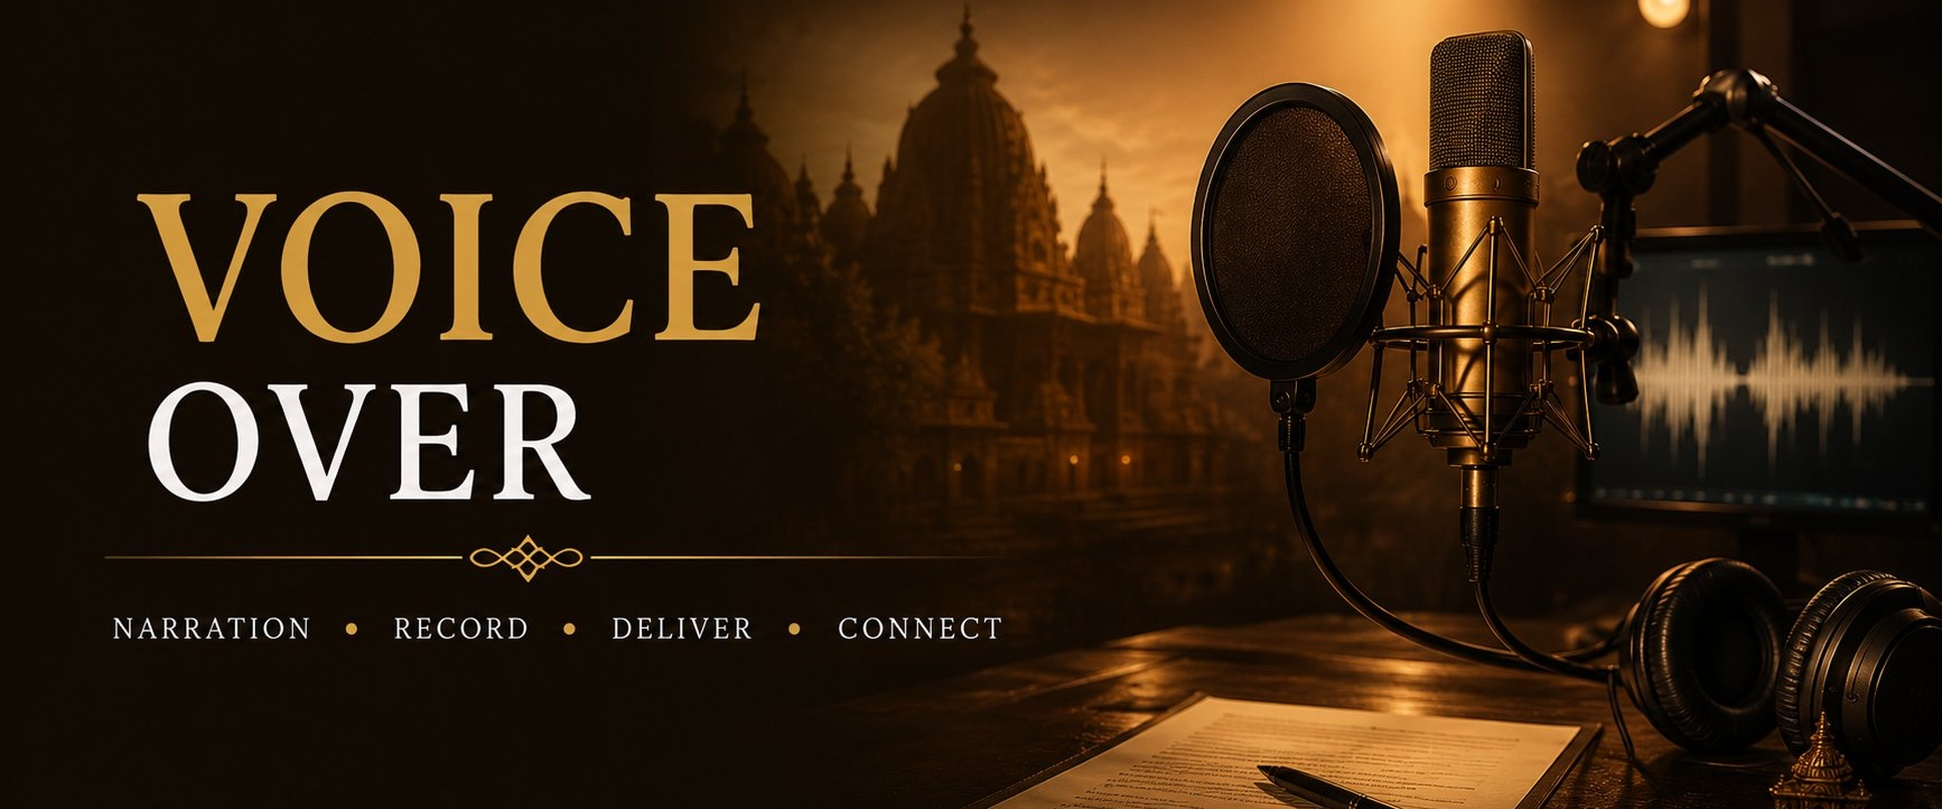
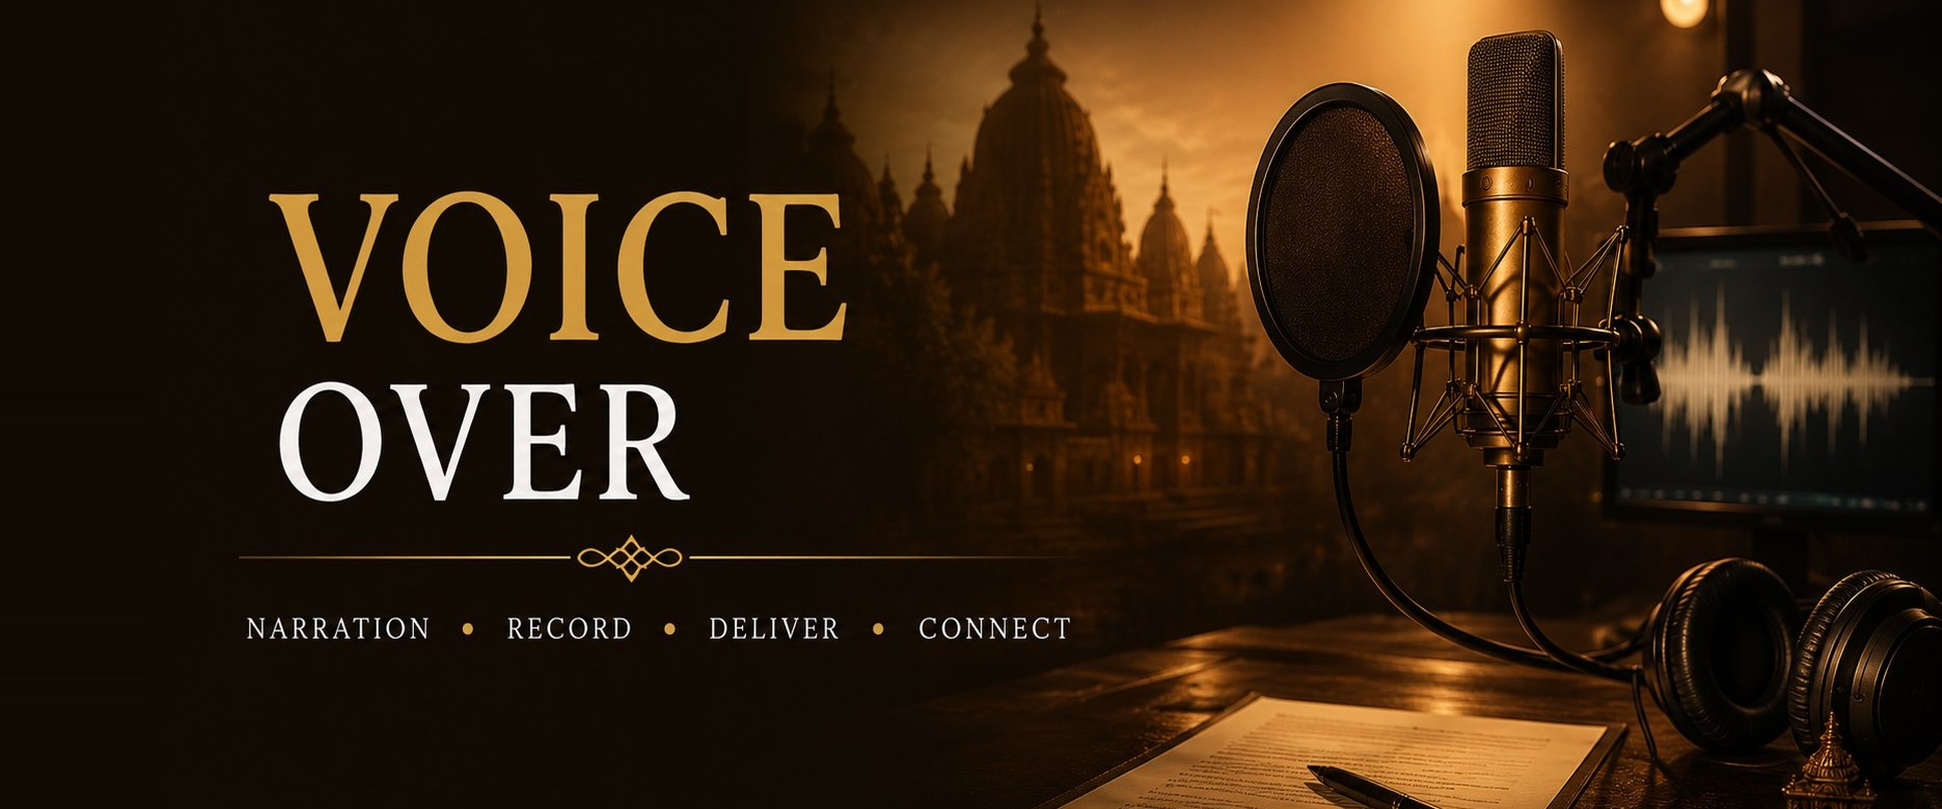
Unify all 12 poster covers to 2.4:1 (1942x809): fix Voice Over, Digital Writing, Commercial & Feature Films alignment and remove inline 82vh

diff --git a/style.css b/style.css
@@ -10052,9 +10052,14 @@ body.mobile-nav-locked {
 @media (max-width: 992px) {
     /* Header layout */
     .header {
+        position: fixed !important;
+        top: 0 !important;
+        left: 0 !important;
+        width: 100% !important;
         background: rgba(26, 16, 11, 0.95) !important;
         backdrop-filter: blur(14px) !important;
         -webkit-backdrop-filter: blur(14px) !important;
+        z-index: 100005 !important; /* CRITICAL: Sits ABOVE .mobile-nav-backdrop (100000) on tablets */
     }
 
     .header-container {
@@ -10066,6 +10071,7 @@ body.mobile-nav-locked {
 
     .mobile-nav-toggle {
         display: flex !important;
+        z-index: 100006 !important;
     }
 
     .logo img {
@@ -10075,23 +10081,23 @@ body.mobile-nav-locked {
         object-fit: contain !important;
     }
 
-    /* Mobile Drawer */
+    /* Mobile / Tablet Drawer */
     .navbar {
         position: fixed !important;
         top: 0 !important;
-        right: -320px !important;
-        width: 300px !important;
+        right: -360px !important;
+        width: 340px !important;
         max-width: 85vw !important;
         height: 100vh !important;
         height: 100dvh !important;
-        background: linear-gradient(180deg, rgba(28, 17, 11, 0.98) 0%, rgba(18, 10, 6, 0.99) 100%) !important;
-        border-left: 1px solid rgba(223, 195, 122, 0.3) !important;
-        box-shadow: -15px 0 40px rgba(0, 0, 0, 0.85) !important;
-        padding: 90px 28px 40px !important;
+        background: linear-gradient(180deg, rgba(28, 17, 11, 0.99) 0%, rgba(18, 10, 6, 0.99) 100%) !important;
+        border-left: 1px solid rgba(223, 195, 122, 0.35) !important;
+        box-shadow: -15px 0 45px rgba(0, 0, 0, 0.9) !important;
+        padding: 95px 32px 40px !important;
         display: flex !important;
         flex-direction: column !important;
         justify-content: flex-start !important;
-        z-index: 100001 !important;
+        z-index: 100007 !important;
         visibility: hidden !important;
         pointer-events: none !important;
         transition: right 0.4s cubic-bezier(0.16, 1, 0.3, 1), visibility 0.4s ease !important;
@@ -10243,7 +10249,7 @@ body.mobile-nav-locked {
         object-fit: contain !important;
     }
     .mobile-nav-toggle {
-        z-index: 100005 !important; /* Higher than open drawer */
+        z-index: 100008 !important; /* Higher than open drawer */
     }
     .mobile-nav-backdrop {
         z-index: 100000 !important;
@@ -10251,7 +10257,7 @@ body.mobile-nav-locked {
     .navbar {
         width: 275px !important;
         max-width: 76vw !important;
-        z-index: 100001 !important;
+        z-index: 100007 !important;
     }
     body.mobile-nav-locked .logo {
         opacity: 0.2 !important;

diff --git a/index.html b/index.html
@@ -14,7 +14,7 @@ Shabdvid | Where Ideas Transform Into Meaningful Stories
 
     <link rel="icon" type="image/png" href="images/favicon.png">
     <link rel="stylesheet" href="https://cdnjs.cloudflare.com/ajax/libs/font-awesome/6.7.2/css/all.min.css">
-    <link rel="stylesheet" href="style.css?v=20261126_cover_final">
+    <link rel="stylesheet" href="style.css?v=20261127_tablet_menu">
 
 <link rel="preconnect"
 href="https://fonts.googleapis.com">
@@ -872,7 +872,7 @@ Contact
 
                 <div class="collection-image">
 
-                    <img src="images/voice-over.jpg?v=20261126_240" alt="Voice Over" loading="lazy" decoding="async">
+                    <img src="images/voice-over.jpg?v=20261127_pad" alt="Voice Over" loading="lazy" decoding="async">
 
                 </div>
 
@@ -897,7 +897,7 @@ Contact
 
                 <div class="collection-image">
 
-                    <img src="images/digital-writing.jpg?v=20261126_240" alt="Digital Writing" loading="lazy" decoding="async">
+                    <img src="images/digital-writing.jpg?v=20261127_pad" alt="Digital Writing" loading="lazy" decoding="async">
 
                 </div>
 
@@ -922,7 +922,7 @@ Contact
 
                 <div class="collection-image">
 
-                    <img src="images/commercial-films.jpg?v=20261126_240" alt="Commercial Films" loading="lazy" decoding="async">
+                    <img src="images/commercial-films.jpg?v=20261127_pad" alt="Commercial Films" loading="lazy" decoding="async">
 
                 </div>
 
@@ -947,7 +947,7 @@ Contact
 
                 <div class="collection-image">
 
-                    <img src="images/feature-films.jpg?v=20261126_240" alt="Feature Films" loading="lazy" decoding="async">
+                    <img src="images/feature-films.jpg?v=20261127_pad" alt="Feature Films" loading="lazy" decoding="async">
 
                 </div>
 

diff --git a/digital-writing.html b/digital-writing.html
@@ -44,7 +44,7 @@
     <!-- ================= CSS ================= -->
 
     <link rel="stylesheet"
-          href="portfolio.css?v=posters_cover_v4">
+          href="portfolio.css?v=20261127_pad">
 
 </head>
 
@@ -91,7 +91,7 @@
 
     <div class="hero-poster">
 
-        <img src="images/digital-writing.jpg?v=20261126_240"
+        <img src="images/digital-writing.jpg?v=20261127_pad"
              alt="Digital Writing">
 
     </div>

diff --git a/voiceovers.html b/voiceovers.html
@@ -40,7 +40,7 @@
     <!-- ================= CSS ================= -->
 
     <link rel="stylesheet"
-          href="portfolio.css?v=posters_cover_v4">
+          href="portfolio.css?v=20261127_pad">
 
 </head>
 
@@ -81,7 +81,7 @@
 
     <div class="hero-poster">
 
-        <img src="images/voice-over.jpg?v=20261126_240"
+        <img src="images/voice-over.jpg?v=20261127_pad"
              alt="Voice Over">
 
     </div>

diff --git a/commercial-films.html b/commercial-films.html
@@ -42,7 +42,7 @@
     <!-- EXISTING CSS -->
 
     <link rel="stylesheet"
-          href="portfolio.css?v=posters_cover_v4">
+          href="portfolio.css?v=20261127_pad">
 
 </head>
 
@@ -89,7 +89,7 @@
 
     <div class="hero-poster">
 
-        <img src="images/commercial-films.jpg?v=20261126_240"
+        <img src="images/commercial-films.jpg?v=20261127_pad"
              alt="Commercial Films">
 
     </div>

diff --git a/light-and-sound-shows.html b/light-and-sound-shows.html
@@ -21,7 +21,7 @@
     <!-- Portfolio CSS -->
     <link rel="stylesheet" href="https://cdnjs.cloudflare.com/ajax/libs/font-awesome/6.7.2/css/all.min.css">
     <link rel="icon" type="image/png" href="images/favicon.png">
-    <link rel="stylesheet" href="portfolio.css?v=posters_cover_v4">
+    <link rel="stylesheet" href="portfolio.css?v=20261127_pad">
 
 </head>
 

diff --git a/television-production-house.html b/television-production-house.html
@@ -21,7 +21,7 @@
     <!-- Portfolio CSS -->
     <link rel="stylesheet" href="https://cdnjs.cloudflare.com/ajax/libs/font-awesome/6.7.2/css/all.min.css">
     <link rel="icon" type="image/png" href="images/favicon.png">
-    <link rel="stylesheet" href="portfolio.css?v=posters_cover_v4">
+    <link rel="stylesheet" href="portfolio.css?v=20261127_pad">
 
 </head>
 

diff --git a/books-and-articles.html b/books-and-articles.html
@@ -34,7 +34,7 @@
           href="https://cdnjs.cloudflare.com/ajax/libs/font-awesome/6.7.2/css/all.min.css">
 
     <!-- ================= CSS ================= -->
-    <link rel="stylesheet" href="portfolio.css?v=posters_cover_v4">
+    <link rel="stylesheet" href="portfolio.css?v=20261127_pad">
 
 </head>
 

diff --git a/songs-and-jingles.html b/songs-and-jingles.html
@@ -34,7 +34,7 @@
           href="https://cdnjs.cloudflare.com/ajax/libs/font-awesome/6.7.2/css/all.min.css">
 
     <!-- ================= CSS ================= -->
-    <link rel="stylesheet" href="portfolio.css?v=posters_cover_v4">
+    <link rel="stylesheet" href="portfolio.css?v=20261127_pad">
 
 </head>
 

diff --git a/state-government-projects.html b/state-government-projects.html
@@ -34,7 +34,7 @@
           href="https://cdnjs.cloudflare.com/ajax/libs/font-awesome/6.7.2/css/all.min.css">
 
     <!-- ================= CSS ================= -->
-    <link rel="stylesheet" href="portfolio.css?v=posters_cover_v4">
+    <link rel="stylesheet" href="portfolio.css?v=20261127_pad">
 
 </head>
 

diff --git a/real-estate-promotional-films.html b/real-estate-promotional-films.html
@@ -14,7 +14,7 @@
       content="Real Estate Promotional Films Portfolio by Shabdvid">
 
     <link rel="stylesheet"
-          href="portfolio.css?v=posters_cover_v4">
+          href="portfolio.css?v=20261127_pad">
 
     <link rel="preconnect"
           href="https://fonts.googleapis.com">

diff --git a/spiritual-documentary.html b/spiritual-documentary.html
@@ -14,7 +14,7 @@
           content="Spiritual Documentary Portfolio by Shabdvid">
 
     <link rel="stylesheet"
-          href="portfolio.css?v=posters_cover_v4">
+          href="portfolio.css?v=20261127_pad">
 
     <link rel="preconnect"
           href="https://fonts.googleapis.com">
